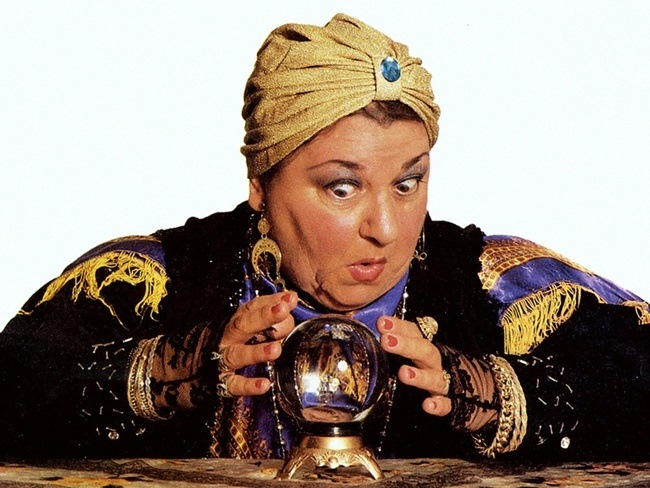
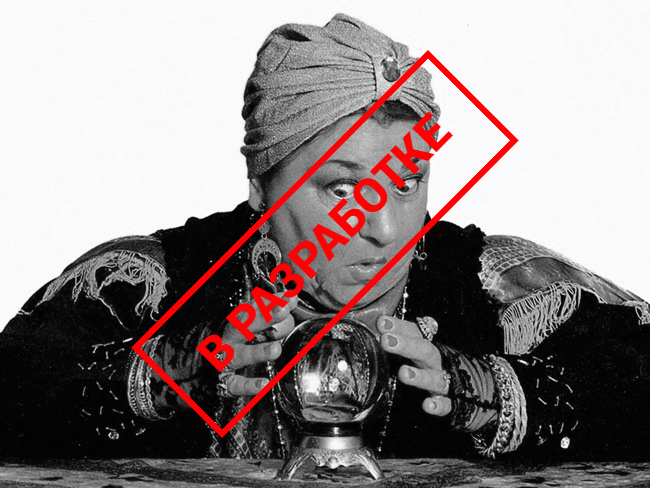
fix(quest cards): changed hover styles

diff --git a/src/app/page.tsx b/src/app/page.tsx
@@ -38,7 +38,7 @@ export default function Home() {
               key={index}
               className="xl:w-4/12 lg:w-4/12"
             >
-              <div className="quest-card relative">
+              <div className="quest-card relative grayscale-[100%] hover:grayscale-[0%] transition">
                 <div
                   className={`${i.backgroundImage} h-80 bg-no-repeat bg-cover bg-center relative`}
                 >
@@ -56,9 +56,9 @@ export default function Home() {
               </div>
             </Link>
           ) : (
-            <div className="bg-neutral-800 xl:w-4/12 lg:w-4/12 relative">
+            <div className="relative xl:w-4/12 lg:w-4/12">
               <div
-                className={`${i.backgroundImage} h-80 bg-no-repeat bg-cover bg-center relative`}
+                className={`${i.backgroundImage} h-80 bg-no-repeat bg-cover bg-center relative grayscale-[100%] hover:grayscale-[0%] transition`}
               >
                 <h1 className={`absolute bottom-0 p-4 ${rubikMono.className}`}>
                   {i.title}
